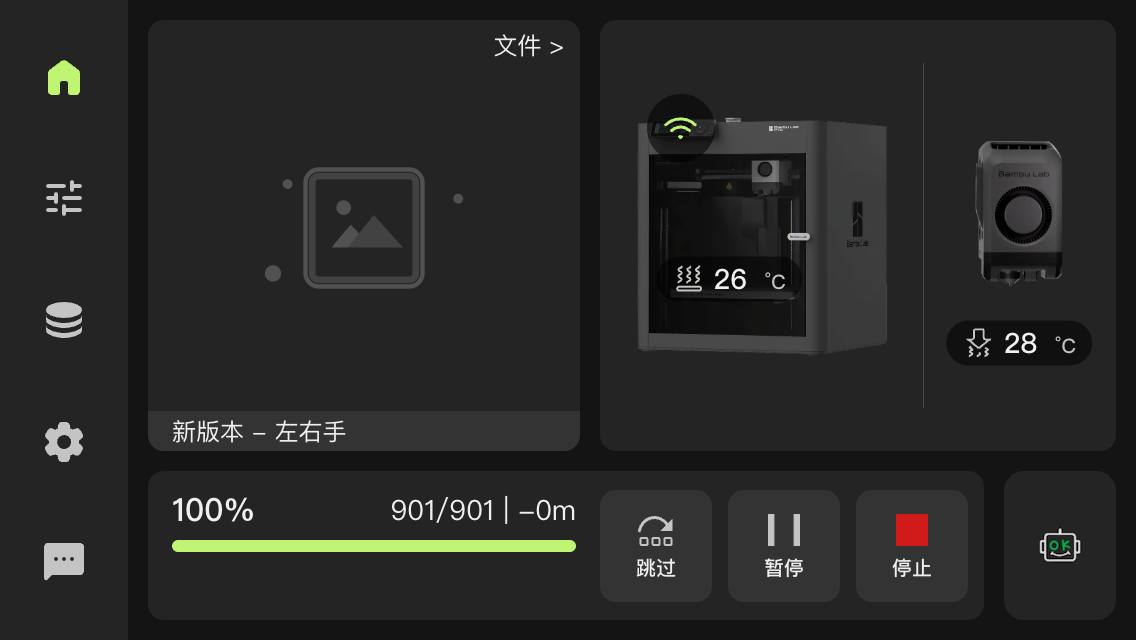
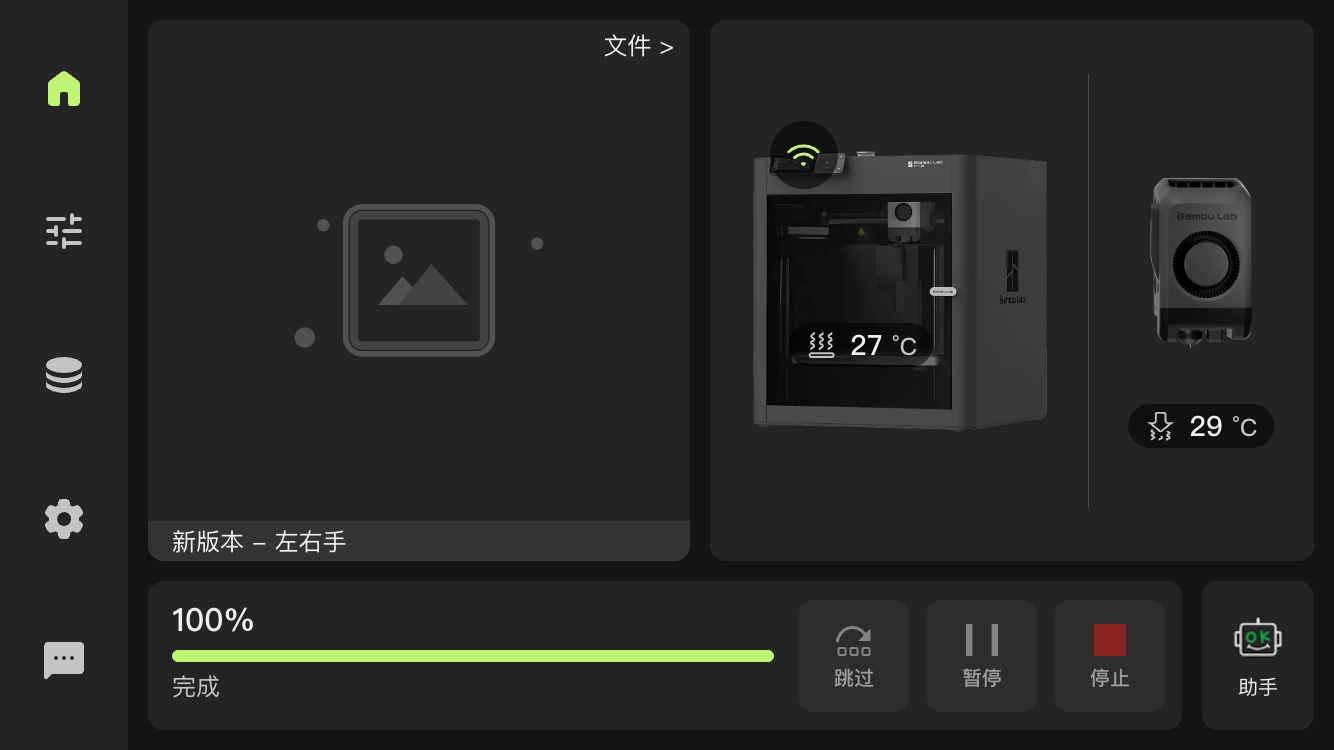
add hms button badge

diff --git a/frontend/src/views/home/HomePage.vue b/frontend/src/views/home/HomePage.vue
@@ -38,10 +38,10 @@
 
       <div class="line" ></div>
       <div class="hms" @click="router.replace({ name: ROUTE_NAME.MESSAGE })">
-        <img :src="hmsIcon(!(device && device.hms.length > 0))"/>
-        <div :style="{ color: device && device.hms.length > 0 ? 'orange' : undefined }">
-          {{ device && device.hms.length > 0 ? device.hms.length : t('assistant') }}
-        </div>
+        <van-badge :content="device && device.hms.length > 0 ? device?.hms.length : undefined" :offset="[-2, 6]">
+          <img :src="hmsIcon(!(device && device.hms.length > 0))"/>
+        </van-badge>
+        {{ t('assistant') }}
       </div>
     </div>
   </div>
@@ -90,14 +90,12 @@
         <ControlButton :icon="stopIcon" :label="t('action_stop')" font-size="10px" @click="handleStop" :disabled="!showPrintActions" />
       </div>
     </div>
-    <ControlButton
-      class="card hms"
-      :icon="hmsIcon(!(device && device.hms.length > 0))"
-      :label="device && device.hms.length > 0 ? String(device.hms.length) : t('assistant')"
-      font-size="10px"
-      :style="{ color: device && device.hms.length > 0 ? 'orange' : undefined }"
-      @click="router.replace({ name: ROUTE_NAME.MESSAGE })"
-      />
+    <div class="card hms" @click="router.replace({ name: ROUTE_NAME.MESSAGE })">
+      <van-badge :content="device && device.hms.length > 0 ? device?.hms.length : undefined" :offset="[-2, 6]">
+        <img :src="hmsIcon(!(device && device.hms.length > 0))"/>
+      </van-badge>
+      {{ t('assistant') }}
+    </div>
   </div>
   <!-- TODO: Error Popup -->
 </template>
@@ -390,7 +388,7 @@ const handleStop = () => {
   padding-right: 4px;
 }
 .info-cards > .wifi-signal > img,
-.info-cards > .hms > img {
+.info-cards > .hms img {
   width: 32px;
   height: 32px;
   margin-bottom: 12px;
@@ -643,19 +641,23 @@ const handleStop = () => {
   margin-bottom: 2px;
 }
 
-.card.hms {
+.homepage-running > .card.hms {
   grid-column: 2;
   grid-row: 2;
   justify-self: end;
   width: 56px;
   /* height: 72px; */
   background-color: var(--van-background-2);
+  display: flex;
+  flex-direction: column;
+  align-items: center;
+  justify-content: center;
+  font-size: 10px;
 }
 
-:deep(.card.hms > img) {
-  width: 24px;
-  height: 24px;
-  /* margin-bottom: 0; */
+.homepage-running > .card.hms img {
+  width: 28px;
+  height: 28px;
 }
 
 @media (orientation: portrait) {
@@ -696,7 +698,7 @@ const handleStop = () => {
     justify-content: flex-start;
   }
 
-  .card.hms {
+  .homepage-running > .card.hms {
     display: none;
   }
 }
